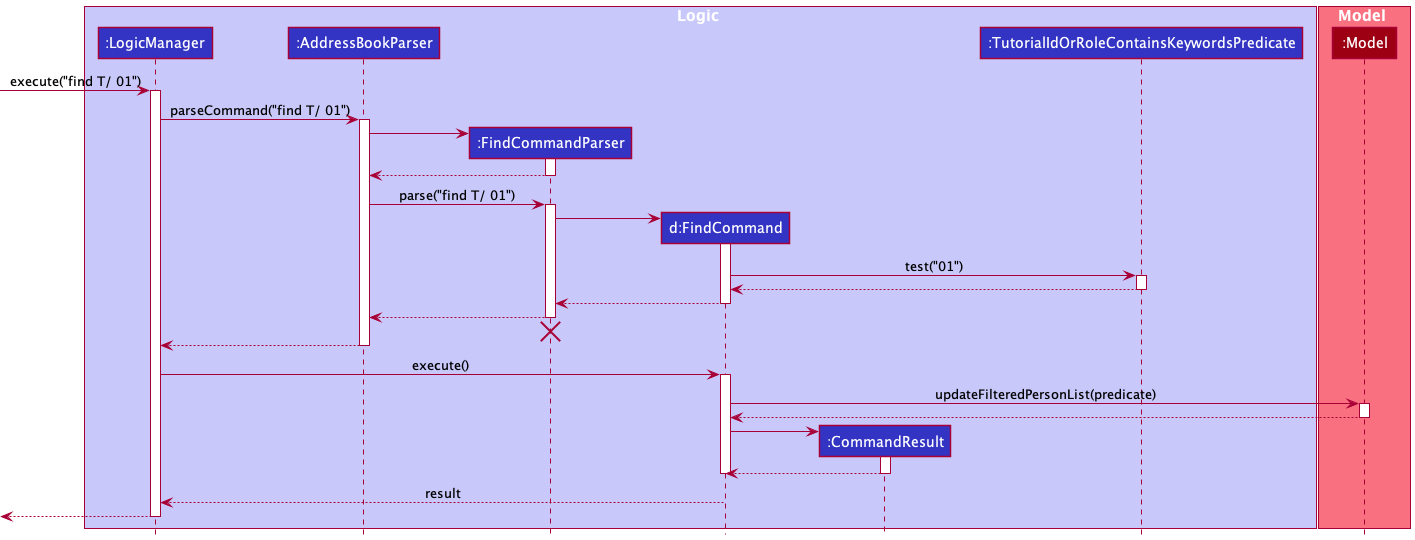
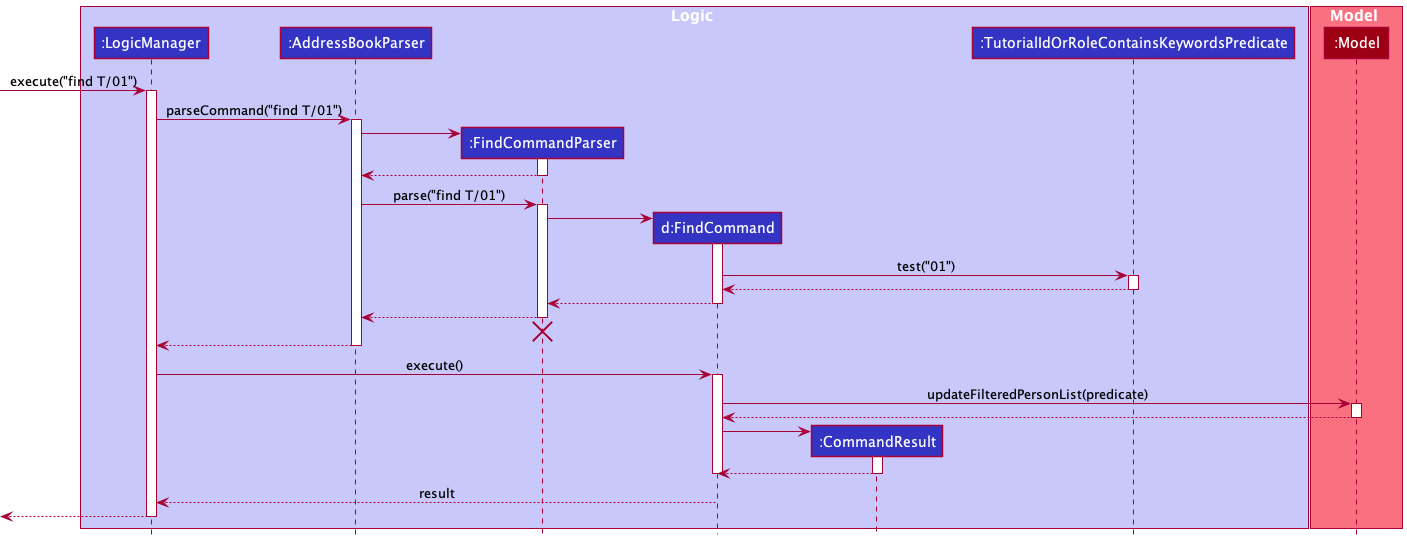
Edit UG and UML diagrams to reflect Find Command changes

diff --git a/src/main/java/seedu/address/logic/commands/FindCommand.java b/src/main/java/seedu/address/logic/commands/FindCommand.java
@@ -17,8 +17,8 @@ public class FindCommand extends Command {
     public static final String MESSAGE_USAGE = COMMAND_WORD + ": Finds all persons whose attribute contain any of "
             + "the specified keywords (case-insensitive and/or partial) "
             + "and displays them as a list with index numbers.\n"
-            + "Parameters: ATTRIBUTE_TYPE KEYWORD [MORE_KEYWORDS]...\n"
-            + "Example: " + COMMAND_WORD + " n/ alice bob charlie";
+            + "Parameters: ATTRIBUTE_TYPEKEYWORD [MORE_KEYWORDS]...\n"
+            + "Example: " + COMMAND_WORD + " n/alice bob charlie";
 
     private final AttributeContainsKeywordsPredicate predicate;
 

diff --git a/src/main/java/seedu/address/logic/commands/StatCommand.java b/src/main/java/seedu/address/logic/commands/StatCommand.java
@@ -81,8 +81,8 @@ public class StatCommand extends Command {
         }
 
         String tutString = "";
-        List<String> temp_list = tutDic.keySet().stream().sorted().collect(Collectors.toList());
-        for (String s : temp_list) {
+        List<String> tempList = tutDic.keySet().stream().sorted().collect(Collectors.toList());
+        for (String s : tempList) {
             tutString += String.format("%s : %d\n", s , tutDic.get(s));
         }
 

diff --git a/docs/DeveloperGuide.md b/docs/DeveloperGuide.md
@@ -344,7 +344,7 @@ Priorities: High (must have) - `* * *`, Medium (nice to have) - `* *`, Low (unli
 | `* *`    | beginner user                              | find the user guide for the app on the app    | have an idea of the features of the app without having to leave the app             |
 | `* *`    | beginner user                              | export search the set of contacts with the given tag | locate a person easily                                                       |
 | `* *`    | user in a supervising position             | export name and email to a file               | send specific emails to a select few contacts
-| `* *`    | curious user                               | view statustics about the contacts that I have added | derive more information about my contacts
+| `* *`    | curious user                               | view statistics about the contacts that I have added | derive more information about my contacts
 
 
 

diff --git a/docs/UserGuide.md b/docs/UserGuide.md
@@ -136,11 +136,11 @@ Format: `find {n/|s/|N/|g/|T/|r/|p/|a/|t/} KEYWORD [MORE_KEYWORDS]`
   e.g. `Hans Bo` will return `Hans Gruber`, `Bo Yang`
 
 Examples:
-* `find n/ Hans Bo` will return `Hans Gruber`, and `Bo Yang`
-* `find t/ friend` will return all the contacts with the tag `friend`
-* `find T/ 01` returns `Alex Yeoh`
-* `find t/ frien` returns `Alex Yeoh`, `Bernice Yu`
-* `find n/ alex david` returns `Alex Yeoh`, `David Li`<br>
+* `find n/Hans Bo` will return `Hans Gruber`, and `Bo Yang`
+* `find t/friend` will return all the contacts with the tag `friend`
+* `find T/01` returns `Alex Yeoh`
+* `find t/frien` returns `Alex Yeoh`, `Bernice Yu`
+* `find n/alex david` returns `Alex Yeoh`, `David Li`<br>
   ![result for 'find alex david'](images/findAlexDavidResult.png)
 
 ### Deleting a person : `delete`
